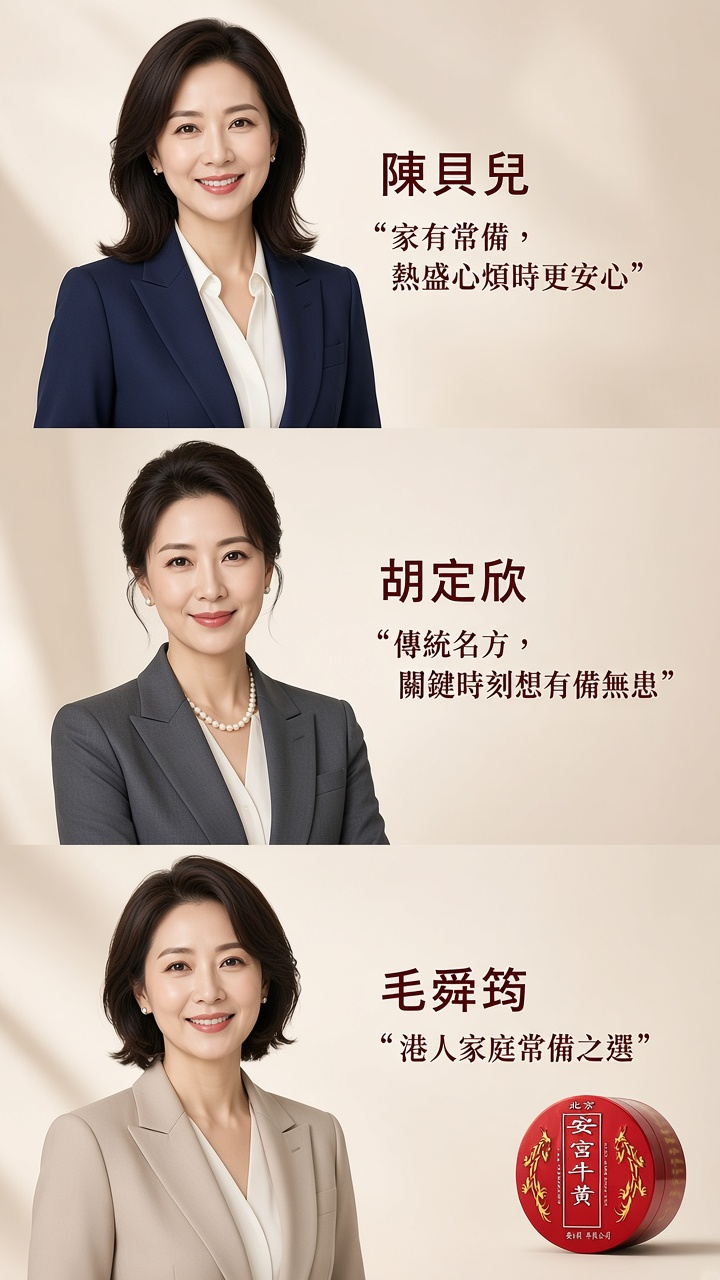
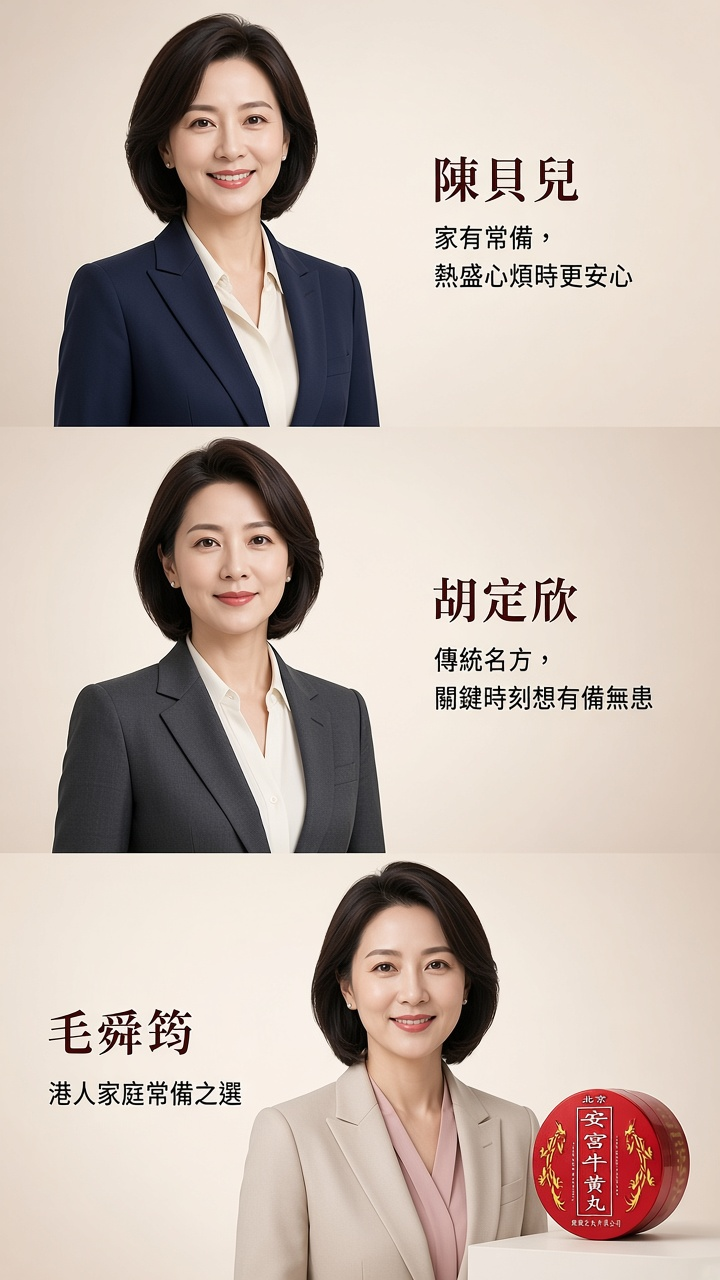
vg6 angong: Miles verbatim 6-prompt regen
Regenerate 北京安宮牛黃丸 1丸 detail panels from Miles exact
prompts (no rewrite). Packshot-referenced; HTML alts updated.

diff --git a/products/angong-niuhuang-1pills-mk380.html b/products/angong-niuhuang-1pills-mk380.html
@@ -104,28 +104,28 @@
   </div>
 
   
-          <!-- VG6 直向詳圖：英雄・持貨・成分・科學・見證・對比 -->
+            <!-- VG6 直向詳圖：英雄・持貨・成分・科學・見證・對比 -->
   <div class="lf-section pdp-detail" id="product-detail-images">
     <h2>產品<span class="accent">詳圖</span></h2>
-    <p class="ml-soft" style="margin-top:0;margin-bottom:0.85rem">六段直向詳圖（Vita主模板改寫・本產品文案），可直向滑動瀏覽。SKU：H6838001_S_MK380。</p>
+    <p class="ml-soft" style="margin-top:0;margin-bottom:0.85rem">六段直向詳圖（按 Miles 提供之安宮牛黃丸 1丸 原句 Prompt 製作），可直向滑動瀏覽。SKU：H6838001_S_MK380。</p>
     <div class="pdp-detail-stack">
       <figure class="pdp-detail-fig">
-        <img src="../assets/products/angong-niuhuang-1pills-mk380/detail/vg6-01.jpg" alt="【清熱名方】北京安宮牛黃丸 1丸 – 熱盛心煩・咽喉暴痛，HK$1080 加入購物車" width="720" height="1280" loading="lazy">
+        <img src="../assets/products/angong-niuhuang-1pills-mk380/detail/vg6-01.jpg" alt="【清熱名方】北京安宮牛黃丸 1丸 – 熱盛、心煩、咽喉腫痛，HK$1080 加入購物車" width="720" height="1280" loading="lazy">
       </figure>
       <figure class="pdp-detail-fig">
-        <img src="../assets/products/angong-niuhuang-1pills-mk380/detail/vg6-02.jpg" alt="關鍵時刻有備無患・牛黃清熱傳統急救名方" width="720" height="1280" loading="lazy">
+        <img src="../assets/products/angong-niuhuang-1pills-mk380/detail/vg6-02.jpg" alt="關鍵時刻 有備無患・牛黃清熱・傳統急救名方" width="720" height="1280" loading="lazy">
       </figure>
       <figure class="pdp-detail-fig">
-        <img src="../assets/products/angong-niuhuang-1pills-mk380/detail/vg6-03.jpg" alt="名方核心・牛黃清熱（以包裝標示為準）" width="720" height="1280" loading="lazy">
+        <img src="../assets/products/angong-niuhuang-1pills-mk380/detail/vg6-03.jpg" alt="名方核心・牛黃・傳統中成藥常見敘述成分" width="720" height="1280" loading="lazy">
       </figure>
       <figure class="pdp-detail-fig">
-        <img src="../assets/products/angong-niuhuang-1pills-mk380/detail/vg6-04.jpg" alt="熱盛三步驟：心煩暴痛 → 清熱名方思路 → 家庭常備可查" width="720" height="1280" loading="lazy">
+        <img src="../assets/products/angong-niuhuang-1pills-mk380/detail/vg6-04.jpg" alt="熱!!是身體在喊救命!!・安宮牛黃清熱應急三步驟" width="720" height="1280" loading="lazy">
       </figure>
       <figure class="pdp-detail-fig">
-        <img src="../assets/products/angong-niuhuang-1pills-mk380/detail/vg6-05.jpg" alt="明星分享：陳貝兒・胡定欣・毛舜筠談安宮家庭常備（形象視覺）" width="720" height="1280" loading="lazy">
+        <img src="../assets/products/angong-niuhuang-1pills-mk380/detail/vg6-05.jpg" alt="陳貝兒・胡定欣・毛舜筠談安宮牛黃丸家庭常備" width="720" height="1280" loading="lazy">
       </figure>
       <figure class="pdp-detail-fig">
-        <img src="../assets/products/angong-niuhuang-1pills-mk380/detail/vg6-06.jpg" alt="為何選擇北京安宮牛黃丸而非普通涼茶／來歷不明" width="720" height="1280" loading="lazy">
+        <img src="../assets/products/angong-niuhuang-1pills-mk380/detail/vg6-06.jpg" alt="為何選擇安宮牛黃丸而非普通涼茶" width="720" height="1280" loading="lazy">
       </figure>
     </div>
   </div>
